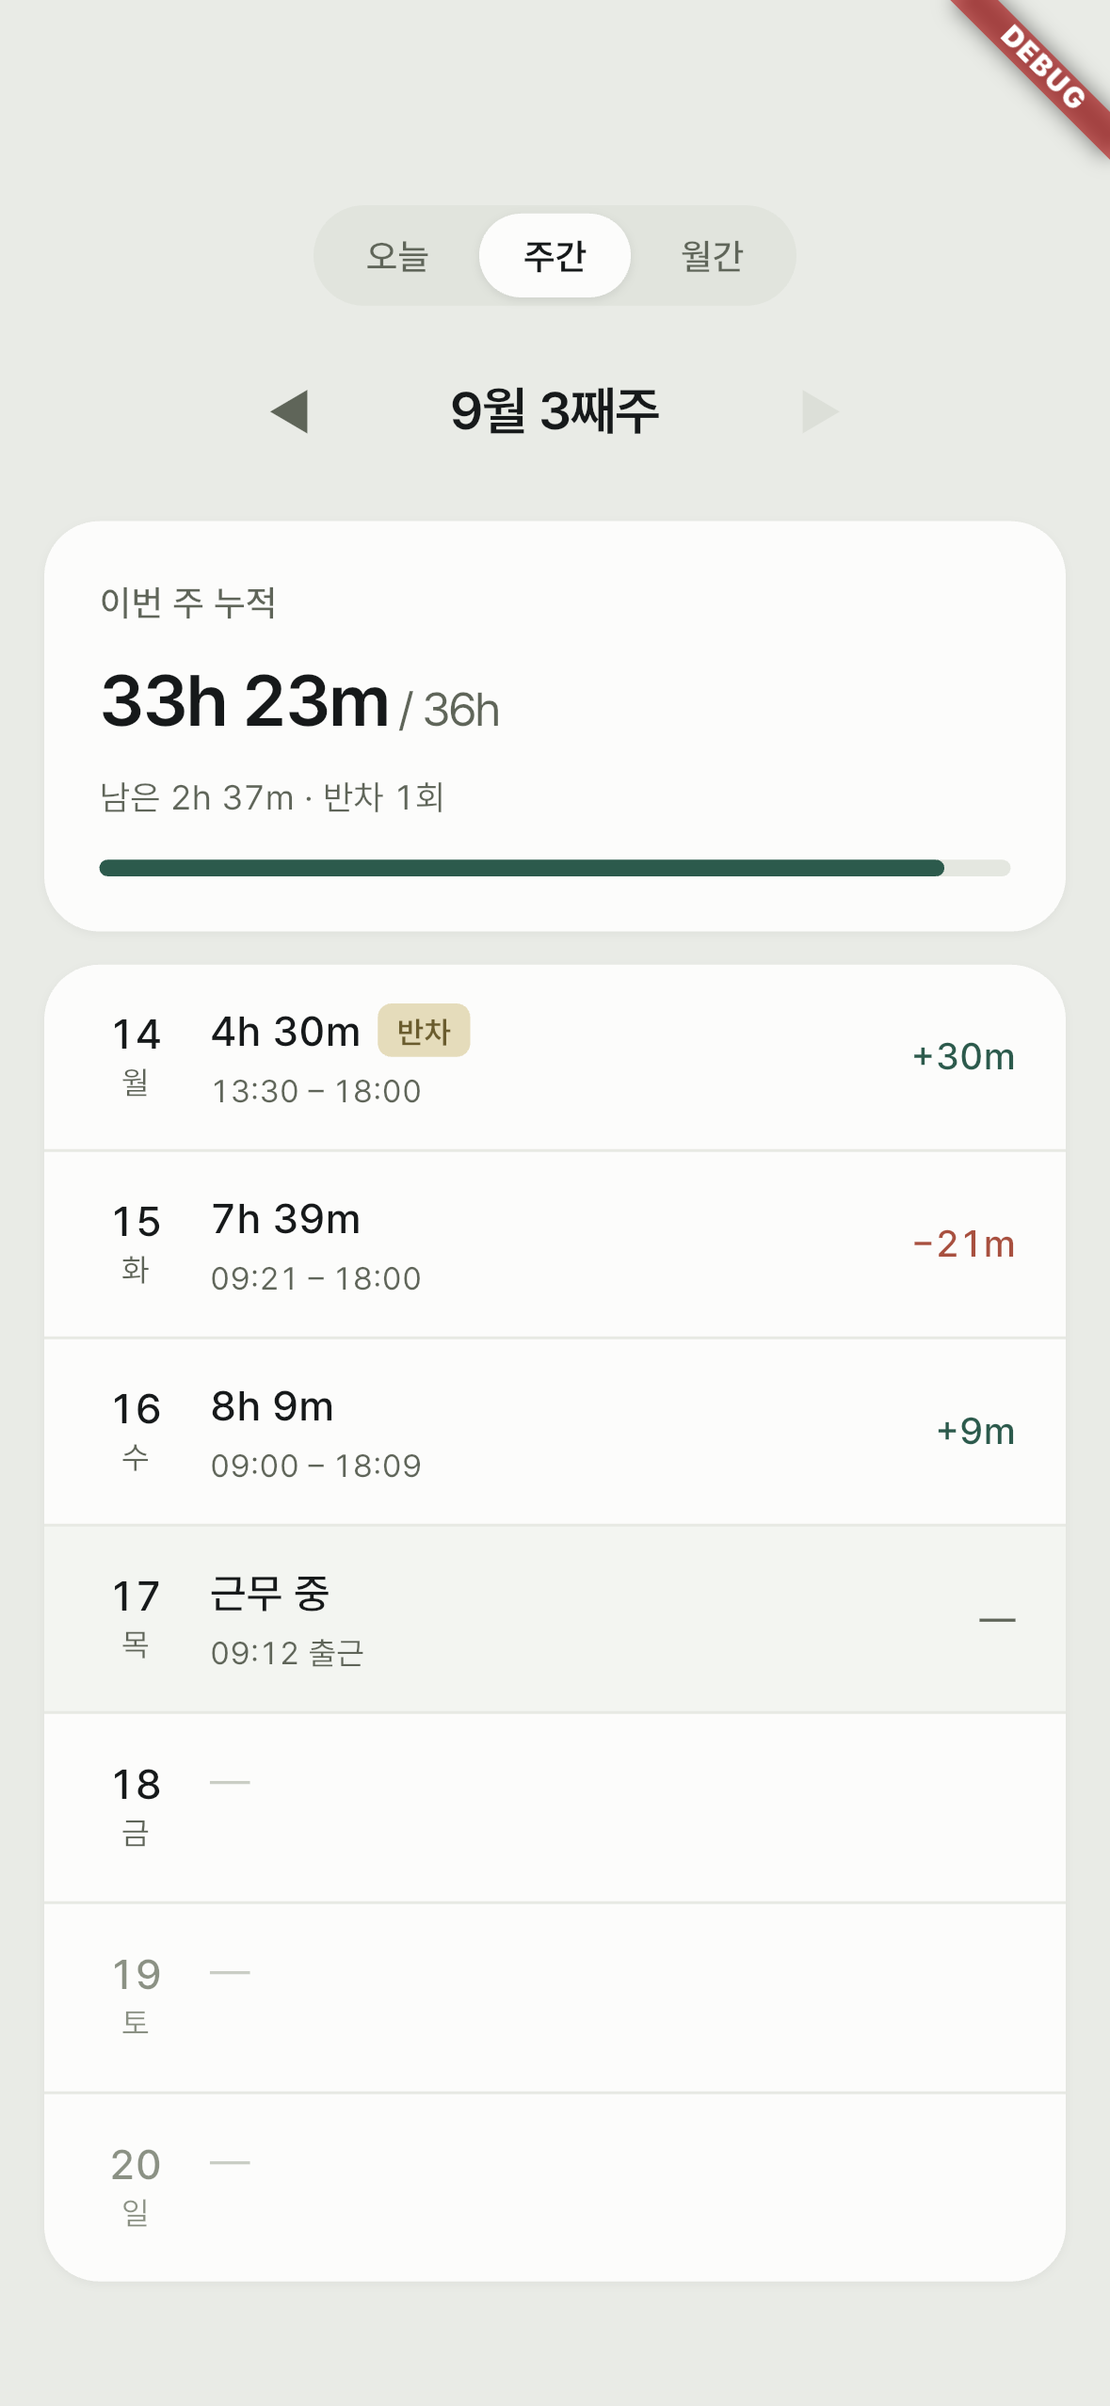
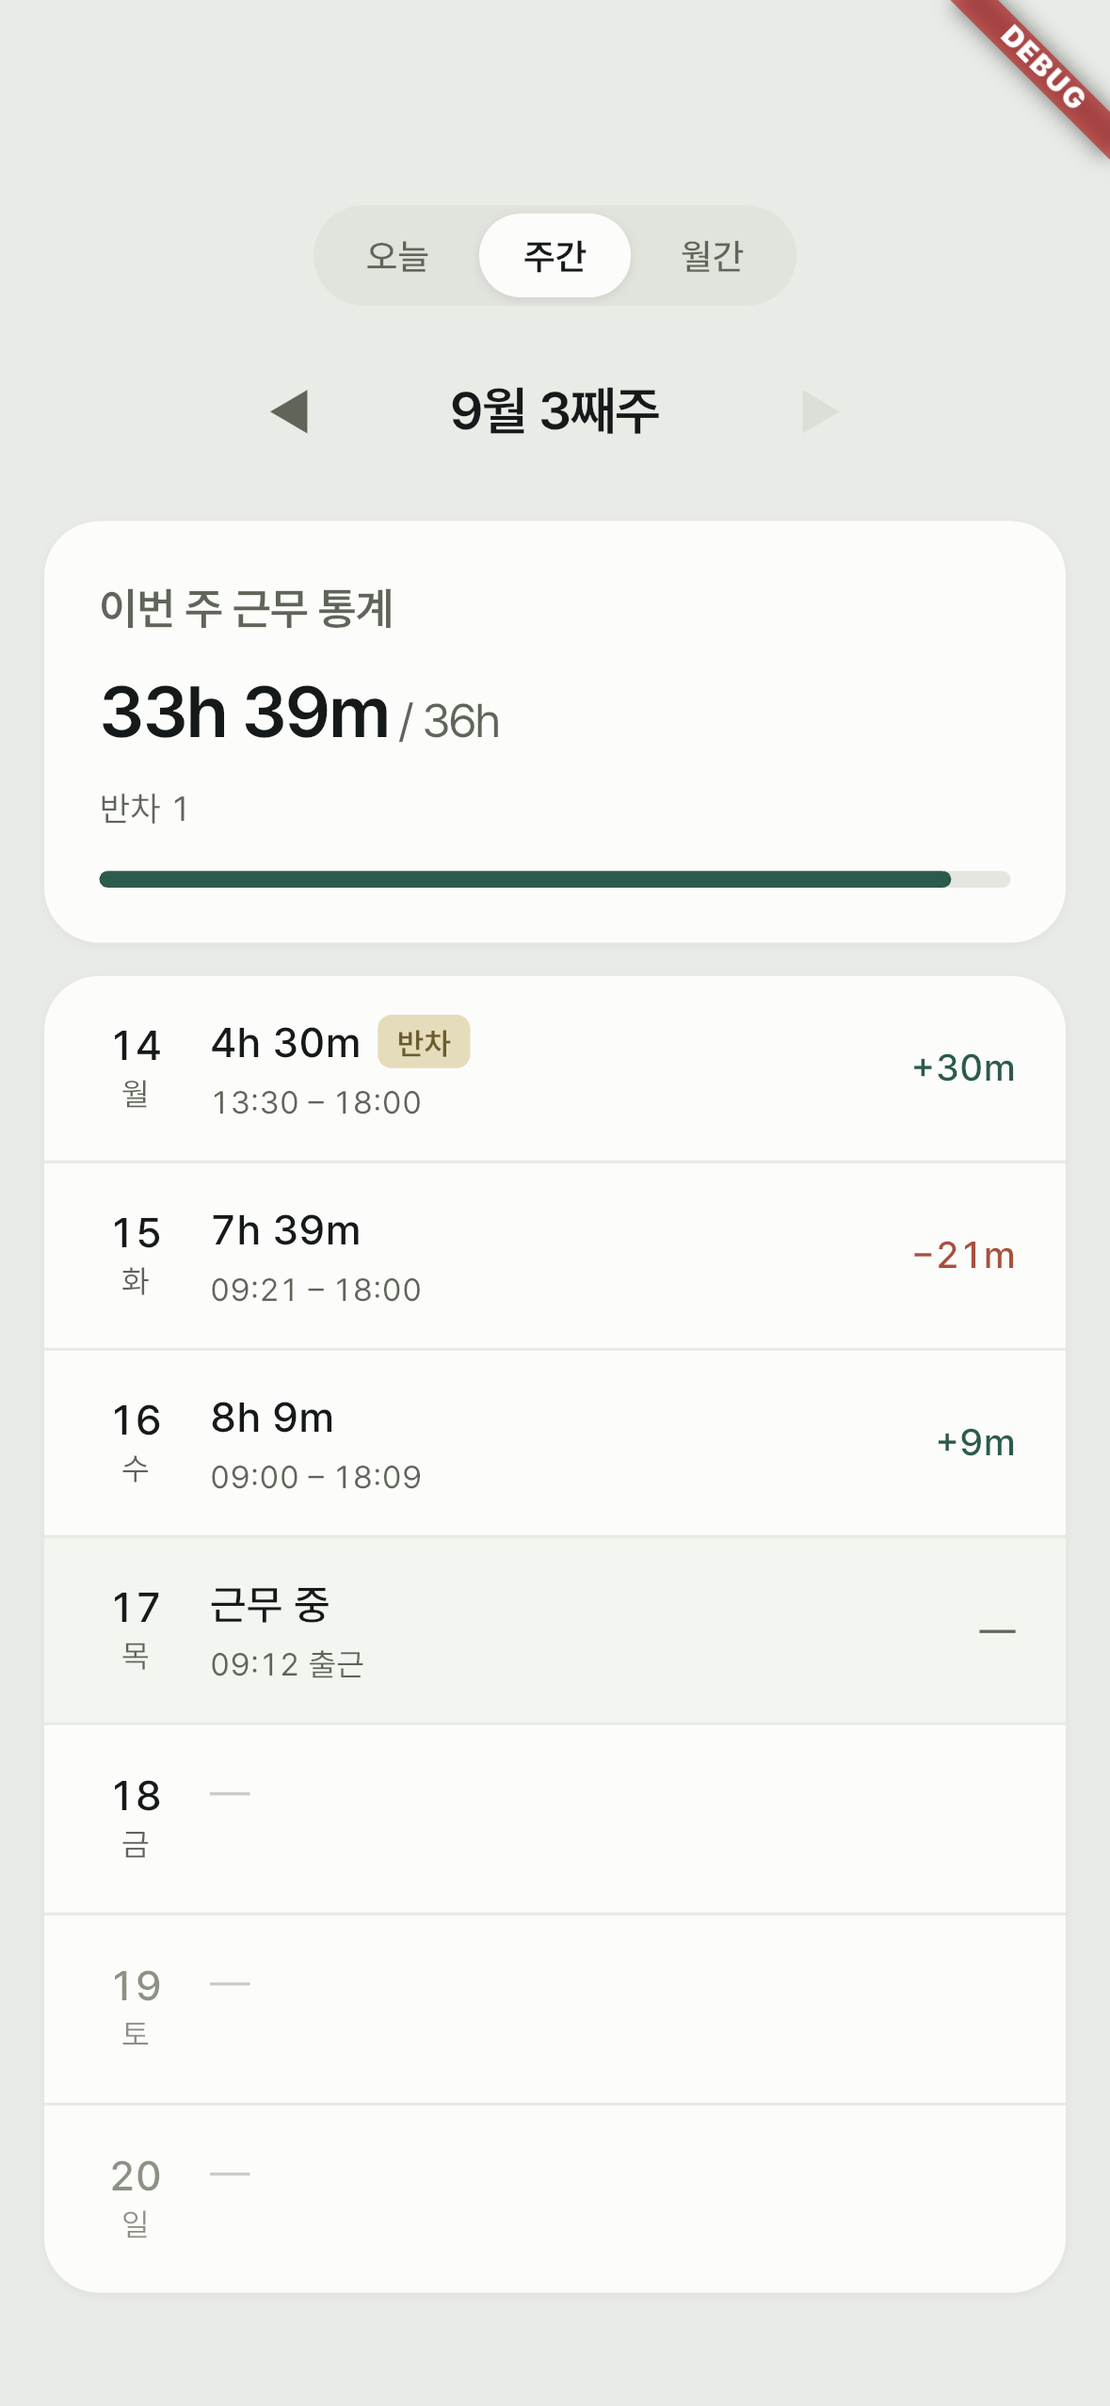
오늘·주간 첫 카드 정리: 제목 키우고 오늘은 잔여+바, 주간은 실적/목표 · 연반공 개수 · 바
- 오늘: "이번 주 남은 근무시간" → 잔여 → 바. 실적/목표 설명 줄 제거 (주간 탭에 있음).
- 주간: "이번 주 근무 통계" → 실적 / 그 주 목표 → "연차 1 · 반차 1 · 공휴일 1"(0은 생략) → 바.
  남은/부족/초과 설명 줄 제거. 첫 주 예외는 기존대로 기록 시작일 · 목표 없음.
- 카드 제목 스타일 cardTitle(16) 추가. 첫 주 안내 문구도 함께.

diff --git a/test/presentation/week_texts_test.dart b/test/presentation/week_texts_test.dart
@@ -18,38 +18,36 @@ void main() {
         monday: monday ?? d(14),
       );
 
-  test('이번 주 근거: 남은 시간 · 반차 차감 · 주말 제외', () {
+  test('이번 주: 실적 / 그 주 목표 · 반차 개수 (주말은 실적에 안 들어감)', () {
     final s = build([
       rec(14, inH: 9, outH: 18), // 8h
       rec(15, inH: 13, outH: 18, type: WorkType.halfDay), // 5h
       rec(19, inH: 10, outH: 14, outM: 30),
     ]);
-    expect(WeekTexts.summaryLabel(s), '이번 주 누적');
+    expect(WeekTexts.summaryLabel(s), '이번 주 근무 통계');
     expect(WeekTexts.summaryValue(s), '13h');
     expect(WeekTexts.summaryGoal(s), '/ 36h');
-    expect(WeekTexts.summaryReason(s, rules), '남은 23h · 반차 1회 · 주말 4h 30m 제외');
+    expect(WeekTexts.summaryDetail(s), '반차 1');
   });
 
-  test('지난 주 부족·초과·딱 맞음', () {
-    final short = build([for (var day = 7; day <= 11; day++) rec(day, inH: 9, outH: 17)], monday: d(7));
-    expect(WeekTexts.summaryLabel(short), '주간 누적');
-    expect(WeekTexts.summaryReason(short, rules), '5h 부족');
-    final over = build([for (var day = 7; day <= 11; day++) rec(day, inH: 9, outH: 19)], monday: d(7));
-    expect(WeekTexts.summaryReason(over, rules), '5h 초과');
-    final exact = build([for (var day = 7; day <= 11; day++) rec(day, inH: 9, outH: 18)], monday: d(7));
-    expect(WeekTexts.summaryReason(exact, rules), '딱 맞음');
-  });
-
-  test('이번 주 목표 달성', () {
-    final s = build([for (var day = 14; day <= 16; day++) rec(day, inH: 8, outH: 23)], now: d(16, 23, 30));
-    expect(WeekTexts.summaryReason(s, rules), startsWith('목표 달성 · +'));
+  test('연·반·공이 다 있으면 연차 · 반차 · 공휴일 순, 없으면 빈 줄', () {
+    final s = build([
+      rec(14, type: WorkType.dayOff),
+      rec(15, inH: 13, outH: 18, type: WorkType.halfDay),
+      rec(16, type: WorkType.holiday),
+    ]);
+    expect(WeekTexts.summaryDetail(s), '연차 1 · 반차 1 · 공휴일 1');
+    expect(WeekTexts.summaryGoal(s), '/ 20h');
+    final plain = build([for (var day = 7; day <= 11; day++) rec(day, inH: 9, outH: 17)], monday: d(7));
+    expect(WeekTexts.summaryLabel(plain), '주간 근무 통계');
+    expect(WeekTexts.summaryDetail(plain), '');
   });
 
   test('첫 주 예외', () {
     final s = build([rec(16, inH: 9)], first: d(16));
     expect(WeekTexts.summaryLabel(s), '이번 주 기록한 시간');
     expect(WeekTexts.summaryGoal(s), '');
-    expect(WeekTexts.summaryReason(s, rules), '9월 16일 수요일부터 기록 · 목표 없음');
+    expect(WeekTexts.summaryDetail(s), '9월 16일 수요일부터 기록 · 목표 없음');
   });
 
   test('행 문구', () {

diff --git a/lib/presentation/today/today_texts.dart b/lib/presentation/today/today_texts.dart
@@ -1,4 +1,3 @@
-import '../../core/presentation/format/date_format.dart';
 import '../../core/presentation/format/time_format.dart';
 import '../../domain/model/work_type.dart';
 import '../../domain/rules/work_rules.dart';
@@ -18,38 +17,15 @@ abstract final class TodayTexts {
   static const revert = '되돌리기';
   static const record = '기록하기 →';
   static const firstWeekNotice =
-      '첫 기록일이 월요일이 아니라 이번 주는 목표를 세우지 않아요. 기록한 시간만 그대로 보여드립니다. 다음 주부터 주 40시간 기준으로 계산돼요.';
+      '첫 기록을 시작하시는군요! 환영합니다.\n첫 주는 기록한 시간만 그대로 보여드립니다.\n다음 주부터 주 40시간 기준으로 계산돼요.';
   static const summaryLabels = ['출근', '퇴근', '근무', '기준 대비'];
 
   static String heroLabel(TodayState s) =>
-      s.isFirstWeek ? '이번 주 기록한 시간' : '이번 주 남은 시간';
+      s.isFirstWeek ? '이번 주 기록한 시간' : '이번 주 남은 근무시간';
 
   static String heroValue(TodayState s) => formatHm(
     s.isFirstWeek ? s.week.workedMinutes : (s.week.remainingMinutes ?? 0),
   );
-
-  static String heroReason(TodayState s, WorkRules rules) {
-    if (s.isFirstWeek) {
-      final first = s.firstRecordDate;
-      return first == null ? '' : '${formatDateTitle(first)}부터 기록';
-    }
-    final w = s.week;
-    final parts = [
-      '${formatHm(w.workedMinutes)} / ${formatHm(w.targetMinutes ?? 0)}',
-    ];
-    if (w.halfDayCount > 0) parts.add('반차 ${w.halfDayCount}회');
-    if (w.dayOffCount > 0) {
-      parts.add(
-        '연차 ${w.dayOffCount}일로 목표 ${formatHm(w.dayOffCount * rules.dayOffCreditMinutes)} 차감',
-      );
-    }
-    if (w.holidayCount > 0) {
-      parts.add(
-        '공휴일 ${w.holidayCount}일로 목표 ${formatHm(w.holidayCount * rules.dayOffCreditMinutes)} 차감',
-      );
-    }
-    return parts.join(' · ');
-  }
 
   /// 진행률 0..1. 첫 주 예외면 null (바를 그리지 않는다).
   static double? progress(TodayState s) {
@@ -74,7 +50,8 @@ abstract final class TodayTexts {
   static String encouragement(TodayState s, WorkRules rules) {
     if (s.isWeekend) return weekendNote;
     if (s.isFirstWeek) return firstWeekNote;
-    if (s.isLastWorkday) return s.date.weekday == DateTime.friday ? lastDayFriday : lastDay;
+    if (s.isLastWorkday)
+      return s.date.weekday == DateTime.friday ? lastDayFriday : lastDay;
     if (s.isFirstWorkday) return firstDay;
     final share = s.todayShareMinutes;
     if (share == null || s.isHalfDay) return onPace;

diff --git a/lib/presentation/week/week_texts.dart b/lib/presentation/week/week_texts.dart
@@ -1,7 +1,6 @@
 import '../../core/presentation/format/date_format.dart';
 import '../../core/presentation/format/time_format.dart';
 import '../../domain/model/work_type.dart';
-import '../../domain/rules/work_rules.dart';
 import 'week_state.dart';
 
 /// 주간 화면의 모든 문구. 숫자(WeekState) → 문자열은 여기서만.
@@ -14,7 +13,7 @@ abstract final class WeekTexts {
 
   static String summaryLabel(WeekState s) {
     if (s.summary.isFirstWeekException) return '이번 주 기록한 시간';
-    return s.isCurrentWeek ? '이번 주 누적' : '주간 누적';
+    return s.isCurrentWeek ? '이번 주 근무 통계' : '주간 근무 통계';
   }
 
   static String summaryValue(WeekState s) => formatHm(s.summary.workedMinutes);
@@ -25,32 +24,18 @@ abstract final class WeekTexts {
     return target == null ? none : '/ ${formatHm(target)}';
   }
 
-  static String summaryReason(WeekState s, WorkRules rules) {
+  /// 목표 아래 한 줄. 첫 주 예외면 왜 목표가 없는지, 아니면 그 주의 연차·반차·공휴일 개수 (없으면 빈 문자열).
+  static String summaryDetail(WeekState s) {
     final w = s.summary;
     if (w.isFirstWeekException) {
       final first = s.firstRecordDate;
       return first == null ? '목표 없음' : '${formatDateTitle(first)}부터 기록 · 목표 없음';
     }
-    final remaining = w.remainingMinutes ?? 0;
-    final parts = <String>[];
-    if (s.isCurrentWeek) {
-      parts.add(remaining > 0 ? '남은 ${formatHm(remaining)}' : '목표 달성 · ${formatSignedHm(-remaining)}');
-    } else if (remaining > 0) {
-      parts.add('${formatHm(remaining)} 부족');
-    } else if (remaining < 0) {
-      parts.add('${formatHm(-remaining)} 초과');
-    } else {
-      parts.add('딱 맞음');
-    }
-    if (w.halfDayCount > 0) parts.add('반차 ${w.halfDayCount}회');
-    if (w.dayOffCount > 0) {
-      parts.add('연차 ${w.dayOffCount}일로 목표 ${formatHm(w.dayOffCount * rules.dayOffCreditMinutes)} 차감');
-    }
-    if (w.holidayCount > 0) {
-      parts.add('공휴일 ${w.holidayCount}일로 목표 ${formatHm(w.holidayCount * rules.dayOffCreditMinutes)} 차감');
-    }
-    if (s.weekendMinutes > 0) parts.add('주말 ${formatHm(s.weekendMinutes)} 제외');
-    return parts.join(' · ');
+    return [
+      if (w.dayOffCount > 0) '연차 ${w.dayOffCount}',
+      if (w.halfDayCount > 0) '반차 ${w.halfDayCount}',
+      if (w.holidayCount > 0) '공휴일 ${w.holidayCount}',
+    ].join(' · ');
   }
 
   /// 진행률 0..1. 첫 주 예외면 null.

diff --git a/lib/presentation/week/widgets/week_summary_card.dart b/lib/presentation/week/widgets/week_summary_card.dart
@@ -1,6 +1,5 @@
 import 'package:flutter/material.dart';
 
-import '../../../domain/rules/work_rules.dart';
 import '../../../ui/app_decorations.dart';
 import '../../../ui/app_sizes.dart';
 import '../../../ui/app_text_styles.dart';
@@ -8,17 +7,17 @@ import '../../shared/progress_bar.dart';
 import '../week_state.dart';
 import '../week_texts.dart';
 
-/// 카드 A — 누적. 첫 주 예외면 목표·진행 바 없이 누적만.
+/// 카드 A — 제목 → 실적 / 그 주 목표 → 연·반·공 개수(없으면 생략) → 진행 바. 첫 주 예외면 목표·바 없이 누적만.
 class WeekSummaryCard extends StatelessWidget {
-  const WeekSummaryCard({super.key, required this.state, required this.rules});
+  const WeekSummaryCard({super.key, required this.state});
 
   final WeekState state;
-  final WorkRules rules;
 
   @override
   Widget build(BuildContext context) {
     final progress = WeekTexts.progress(state);
     final goal = WeekTexts.summaryGoal(state);
+    final detail = WeekTexts.summaryDetail(state);
     return Container(
       width: double.infinity,
       padding: AppSizes.weekCardPadding,
@@ -26,7 +25,7 @@ class WeekSummaryCard extends StatelessWidget {
       child: Column(
         crossAxisAlignment: CrossAxisAlignment.start,
         children: [
-          Text(WeekTexts.summaryLabel(state), style: AppTextStyles.label),
+          Text(WeekTexts.summaryLabel(state), style: AppTextStyles.cardTitle),
           SizedBox(height: AppSizes.weekValueTop),
           Text.rich(
             TextSpan(
@@ -35,8 +34,10 @@ class WeekSummaryCard extends StatelessWidget {
               children: [if (goal.isNotEmpty) TextSpan(text: ' $goal', style: AppTextStyles.weekGoal)],
             ),
           ),
-          SizedBox(height: AppSizes.weekReasonTop),
-          Text(WeekTexts.summaryReason(state, rules), style: AppTextStyles.weekReason),
+          if (detail.isNotEmpty) ...[
+            SizedBox(height: AppSizes.weekReasonTop),
+            Text(detail, style: AppTextStyles.weekReason),
+          ],
           if (progress != null) ...[
             SizedBox(height: AppSizes.weekBarTop),
             ProgressBar(value: progress),

diff --git a/lib/presentation/today/widgets/hero_card.dart b/lib/presentation/today/widgets/hero_card.dart
@@ -1,18 +1,17 @@
 import 'package:flutter/material.dart';
 
-import '../../../domain/rules/work_rules.dart';
 import '../../../ui/app_decorations.dart';
 import '../../../ui/app_sizes.dart';
 import '../../../ui/app_text_styles.dart';
-import '../today_state.dart';
 import '../../shared/progress_bar.dart';
+import '../today_state.dart';
 import '../today_texts.dart';
 
+/// 제목 → 이번 주 잔여 → 진행 바. 실적/목표 같은 세부는 주간 탭에 있으니 여기서는 숫자 하나에 집중한다.
 class HeroCard extends StatelessWidget {
-  const HeroCard({super.key, required this.state, required this.rules});
+  const HeroCard({super.key, required this.state});
 
   final TodayState state;
-  final WorkRules rules;
 
   @override
   Widget build(BuildContext context) {
@@ -24,17 +23,9 @@ class HeroCard extends StatelessWidget {
       child: Column(
         children: [
           // 히어로 카드 높이가 문구 길이에 따라 변하면 아래 버튼이 움직인다. 전부 한 줄로 고정.
-          Text(TodayTexts.heroLabel(state), style: AppTextStyles.label, textAlign: TextAlign.center, maxLines: 1),
+          Text(TodayTexts.heroLabel(state), style: AppTextStyles.cardTitle, textAlign: TextAlign.center, maxLines: 1),
           SizedBox(height: AppSizes.heroValueTop),
           Text(TodayTexts.heroValue(state), style: AppTextStyles.heroValue, textAlign: TextAlign.center, maxLines: 1),
-          SizedBox(height: AppSizes.heroReasonTop),
-          Text(
-            TodayTexts.heroReason(state, rules),
-            style: AppTextStyles.reason,
-            textAlign: TextAlign.center,
-            maxLines: 1,
-            overflow: TextOverflow.ellipsis,
-          ),
           SizedBox(height: AppSizes.progressBarTop),
           // 첫 주 예외에서는 바를 그리지 않지만 같은 높이를 유지한다 — 아래 버튼이 움직이지 않도록.
           SizedBox(

diff --git a/test/presentation/today_texts_test.dart b/test/presentation/today_texts_test.dart
@@ -13,26 +13,25 @@ void main() {
 
   test('히어로: 정상 주', () {
     final s = buildTodayState(records: past, firstRecordDate: d(7), now: d(16, 12), rules: rules);
-    expect(TodayTexts.heroLabel(s), '이번 주 남은 시간');
+    expect(TodayTexts.heroLabel(s), '이번 주 남은 근무시간');
     expect(TodayTexts.heroValue(s), '24h');
-    expect(TodayTexts.heroReason(s, rules), '12h / 36h · 반차 1회');
     expect(TodayTexts.progress(s), closeTo(720 / 2160, 0.0001));
   });
 
-  test('히어로: 연차 문구', () {
+  test('히어로: 연차가 있으면 잔여와 진행률이 줄어든 목표 기준', () {
     final s = buildTodayState(
       records: [rec(14, inH: 9, outH: 18), rec(16, type: WorkType.dayOff)],
       firstRecordDate: d(7),
       now: d(16, 12),
       rules: rules,
     );
-    expect(TodayTexts.heroReason(s, rules), '8h / 32h · 연차 1일로 목표 8h 차감');
+    expect(TodayTexts.heroValue(s), '24h'); // 32h − 8h
+    expect(TodayTexts.progress(s), closeTo(480 / 1920, 0.0001));
   });
 
   test('히어로: 첫 주 예외', () {
     final s = buildTodayState(records: [rec(16, inH: 9)], firstRecordDate: d(16), now: d(16, 12), rules: rules);
     expect(TodayTexts.heroLabel(s), '이번 주 기록한 시간');
-    expect(TodayTexts.heroReason(s, rules), '9월 16일 수요일부터 기록');
     expect(TodayTexts.progress(s), isNull);
   });
 

diff --git a/lib/ui/app_text_styles.dart b/lib/ui/app_text_styles.dart
@@ -43,6 +43,8 @@ abstract final class AppTextStyles {
   static TextStyle get bodyInk => _style(14.5, FontWeight.w400);
   static TextStyle get bodyParagraph => _style(14.5, FontWeight.w400, height: 1.55, color: AppColors.subtle);
   static TextStyle get label => _style(13, FontWeight.w500, color: AppColors.subtle);
+  /// 오늘·주간 첫 카드의 제목 ("이번 주 남은 근무시간", "이번 주 근무 통계")
+  static TextStyle get cardTitle => _style(16, FontWeight.w600, letterSpacingEm: -0.01, color: AppColors.subtle);
   static TextStyle get reason => _style(13.5, FontWeight.w400, color: AppColors.subtle);
   static TextStyle get caption => _style(13.5, FontWeight.w400, color: AppColors.subtle);
   static TextStyle get captionMedium => _style(13.5, FontWeight.w500, color: AppColors.subtle);

diff --git a/test_driver/app_test.dart b/test_driver/app_test.dart
@@ -26,10 +26,10 @@ void main() {
 
     // 스와이프로 주간 이동
     await driver.scroll(find.byType('PageView'), -300, 0, const Duration(milliseconds: 300));
-    await driver.waitFor(find.text('이번 주 누적'));
+    await driver.waitFor(find.text('이번 주 근무 통계'));
     await shot('week-current');
     await driver.tap(find.text('◀'));
-    await driver.waitFor(find.text('주간 누적'));
+    await driver.waitFor(find.text('주간 근무 통계'));
     await shot('week-previous');
 
     await driver.tap(find.text('월간'));

diff --git a/lib/presentation/week/week_screen.dart b/lib/presentation/week/week_screen.dart
@@ -72,7 +72,7 @@ class WeekView extends StatelessWidget {
             padding: AppSizes.bodyPadding.copyWith(bottom: AppSizes.bodyPadding.bottom + bottomInset),
             child: Column(
               children: [
-                WeekSummaryCard(state: state, rules: rules),
+                WeekSummaryCard(state: state),
                 SizedBox(height: AppSizes.cardGap),
                 // 행이 카드 폭을 꽉 채운다 — 카드 자체 패딩 없이 radius로 잘라낸다.
                 Container(

diff --git a/lib/presentation/today/today_view.dart b/lib/presentation/today/today_view.dart
@@ -38,7 +38,7 @@ class TodayView extends StatelessWidget {
             padding: AppSizes.bodyPadding.copyWith(bottom: AppSizes.bodyPadding.bottom + bottomInset),
             child: Column(
               children: [
-                HeroCard(state: state, rules: rules),
+                HeroCard(state: state),
                 SizedBox(height: AppSizes.cardGap),
                 StatusCard(state: state, rules: rules, callbacks: callbacks),
                 if (state.isFirstWeek) ...[

diff --git a/lib/ui/app_sizes.dart b/lib/ui/app_sizes.dart
@@ -26,7 +26,6 @@ abstract final class AppSizes {
 
   // 히어로
   static double get heroValueTop => 8.w;
-  static double get heroReasonTop => 9.w;
   static double get progressBarTop => 18.w;
   static double get progressBar => 6.w;
 
